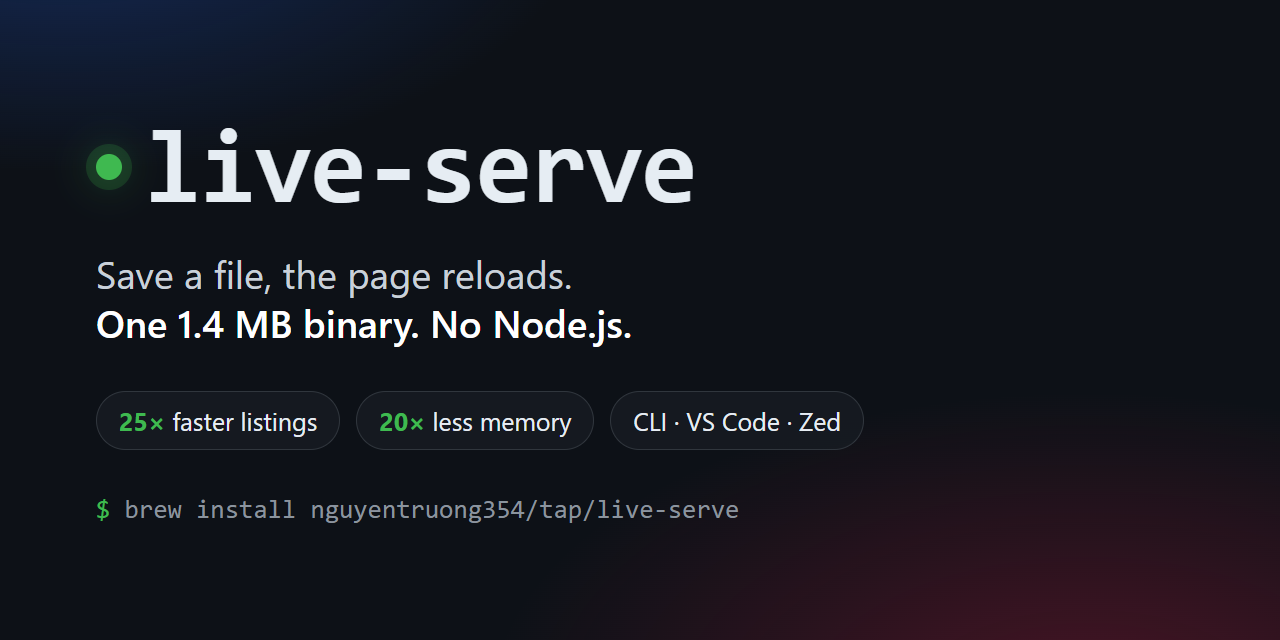
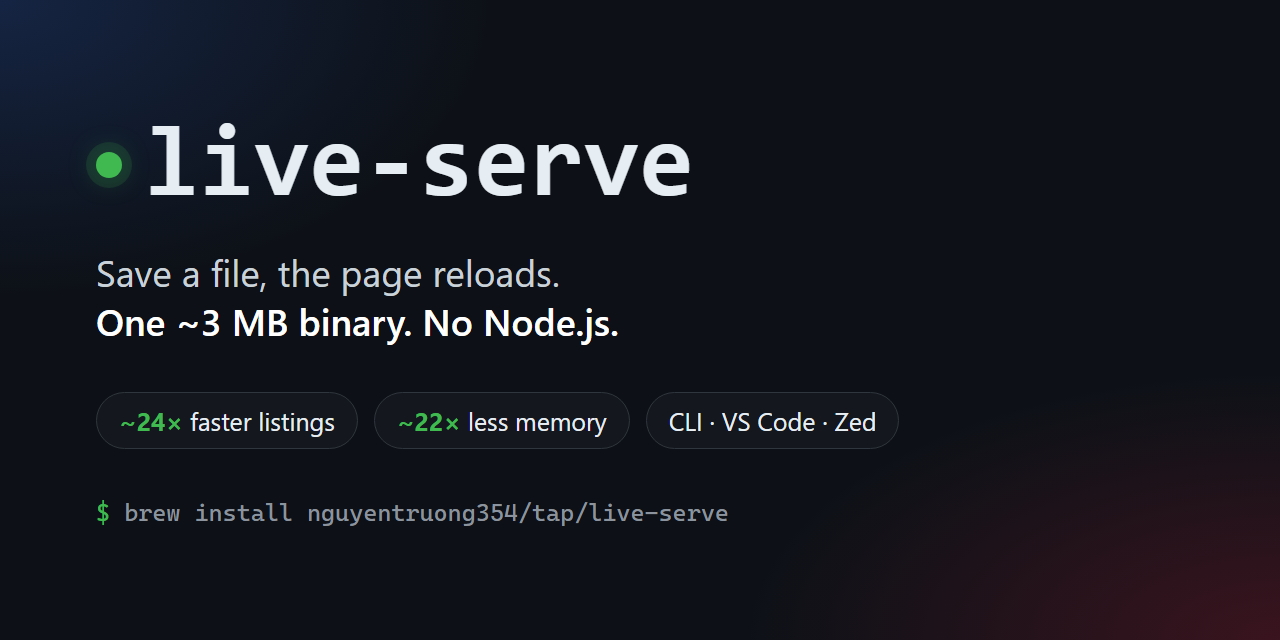
Social preview: 0.4.0 numbers, and the HTML it is rendered from (#8)
The card still said "One 1.4 MB binary", "25x faster listings" and "20x less
memory". With rustls the binary is about 3 MB, and BENCHMARKS.md now has the
1,200-entry listing ~24x faster and memory ~22x lower (10.6 MB vs ~229 MB).

docs/images/social-preview.html is the card's source, rendered to the PNG with
headless Edge at 1280x640 (the command is in its header comment), so the next
update is an edit rather than a redraw.

diff --git a/docs/images/social-preview.html b/docs/images/social-preview.html
@@ -1,0 +1,61 @@
+<!doctype html>
+<!--
+  Source of social-preview.png, the repository's social preview (1280x640). After editing, render it with:
+  msedge --headless --disable-gpu --hide-scrollbars --window-size=1280,640 --screenshot=social-preview.png social-preview.html
+  then upload the PNG under the repository's Settings > Social preview (GitHub does not read it from the repository).
+  Numbers: BENCHMARKS.md (listing speed, memory) and the release archives (binary size).
+-->
+<html lang="en">
+<head>
+<meta charset="utf-8">
+<title>live-serve social preview</title>
+<style>
+  html, body { margin: 0; width: 1280px; height: 640px; overflow: hidden; }
+  body {
+    background:
+      radial-gradient(ellipse 700px 420px at 0% 0%, rgba(31, 60, 120, 0.45), transparent 70%),
+      radial-gradient(ellipse 760px 380px at 100% 100%, rgba(120, 24, 40, 0.42), transparent 70%),
+      #0d1117;
+    color: #e6edf3;
+    font-family: "Segoe UI", system-ui, sans-serif;
+  }
+  .card { position: absolute; left: 96px; top: 112px; }
+  .title { display: flex; align-items: center; gap: 22px; }
+  .dot {
+    width: 26px; height: 26px; border-radius: 50%; background: #3fb950;
+    box-shadow: 0 0 0 10px rgba(63, 185, 80, 0.14), 0 0 28px rgba(63, 185, 80, 0.35);
+    margin-top: 6px;
+  }
+  h1 {
+    margin: 0; font: 700 100px/1 Consolas, "DejaVu Sans Mono", ui-monospace, monospace;
+    letter-spacing: 0; color: #e6edf3;
+  }
+  .lines { margin-top: 36px; font-size: 37px; line-height: 1.32; }
+  .lines .soft { color: #c9d1d9; }
+  .lines .strong { font-weight: 600; color: #ffffff; }
+  .pills { display: flex; gap: 16px; margin-top: 46px; }
+  .pill {
+    padding: 11px 22px; border: 1px solid #30363d; border-radius: 999px;
+    background: rgba(255, 255, 255, 0.03); font-size: 25px; color: #e6edf3;
+  }
+  .pill b { color: #3fb950; font-weight: 700; }
+  .cmd { margin-top: 50px; font: 400 24px "Cascadia Mono", Consolas, ui-monospace, monospace; color: #8b949e; }
+  .cmd span { color: #3fb950; }
+</style>
+</head>
+<body>
+  <div class="card">
+    <div class="title"><div class="dot"></div><h1>live-serve</h1></div>
+    <div class="lines">
+      <div class="soft">Save a file, the page reloads.</div>
+      <div class="strong">One ~3 MB binary. No Node.js.</div>
+    </div>
+    <div class="pills">
+      <div class="pill"><b>~24×</b> faster listings</div>
+      <div class="pill"><b>~22×</b> less memory</div>
+      <div class="pill">CLI · VS Code · Zed</div>
+    </div>
+    <div class="cmd"><span>$</span> brew install nguyentruong354/tap/live-serve</div>
+  </div>
+</body>
+</html>
